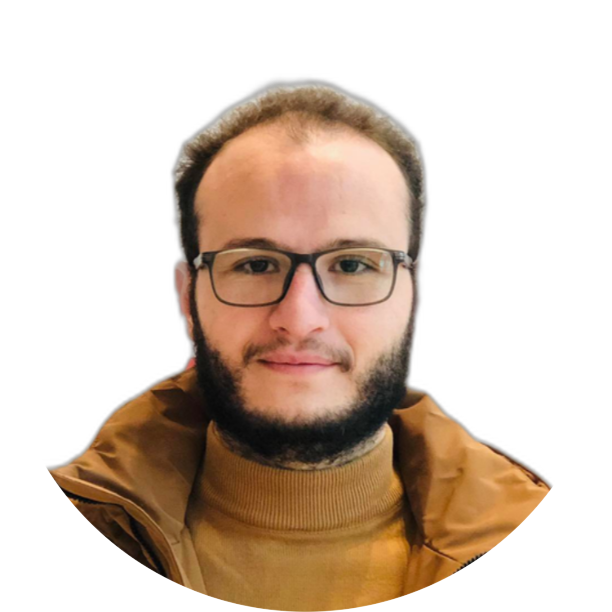
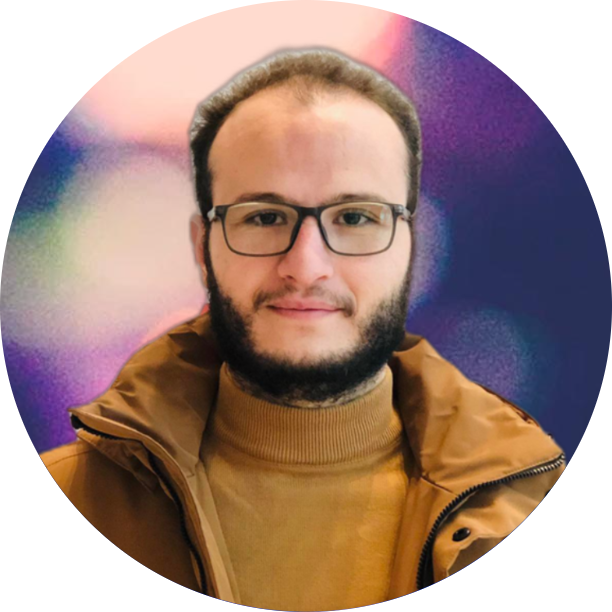
change theme

diff --git a/styles/main.css b/styles/main.css
@@ -1,27 +1,123 @@
-@import url('https://fonts.googleapis.com/css2?family=Readex+Pro:wght@300;400;500;600;700&display=swap');
+@import url('https://fonts.googleapis.com/css2?family=Poppins:wght@400;500;600;700&display=swap');
 
+* {
+  margin: 0;
+  padding: 0;
+  box-sizing: border-box;
+  font-family: 'Poppins', sans-serif;
+}
 
-* {font-family: 'Readex Pro';}
-
+body {
+  background-color: #f2f2f2;
+  color: #333;
+  font-size: 16px;
+}
 
 a {
-    text-decoration: none;
-    color: white !important;
-    font-weight: 500;
+  text-decoration: none;
+  color: #6d4c41;
+  transition: all 0.3s ease-in-out;
 }
 
 a:hover {
-    color: #d33682 !important;
-    text-decoration: none;
+  color: #333;
 }
 
-ul {list-style-type: none;}
-
-hr {
-    margin-top: 0px;
-    margin-bottom: 5%;
+h1,
+h2,
+h3,
+h4,
+h5,
+h6 {
+  font-weight: 500;
+  margin-bottom: 10px;
+  color: #6d4c41;
 }
 
-#MainMenu {visibility: hidden;}
-footer {visibility: hidden;}
-header {visibility: hidden;}
+p {
+  font-size: 16px;
+  line-height: 1.5;
+  margin-bottom: 20px;
+}
+
+.container {
+  max-width: 1170px;
+  margin: 0 auto;
+  padding: 30px;
+  text-align: center;
+}
+
+.btn {
+  display: inline-block;
+  padding: 15px 30px;
+  font-size: 16px;
+  font-weight: 600;
+  text-transform: uppercase;
+  letter-spacing: 1px;
+  border-radius: 50px;
+  transition: all 0.3s ease-in-out;
+  background-color: #6d4c41;
+  color: #fff;
+}
+
+.btn:hover {
+  background-color: #333;
+  color: #fff;
+  cursor: pointer;
+}
+
+header {
+  background-color: #333;
+  color: #fff;
+  padding: 30px 0;
+}
+
+header .logo {
+  font-size: 24px;
+  font-weight: 700;
+  color: #fff;
+  text-transform: uppercase;
+}
+
+header nav {
+  float: right;
+}
+
+header nav ul {
+  display: flex;
+}
+
+header nav ul li {
+  list-style: none;
+  margin-left: 20px;
+}
+
+header nav ul li a {
+  color: #fff;
+  font-size: 18px;
+  font-weight: 500;
+  text-transform: uppercase;
+  transition: all 0.3s ease-in-out;
+}
+
+header nav ul li a:hover {
+  color: #6d4c41;
+}
+
+.hero-section {
+  background-image: url('./hero-bg.jpg');
+  background-size: cover;
+  background-position: center;
+  height: 100vh;
+  display: flex;
+  align-items: center;
+  justify-content: center;
+  text-align: center;
+}
+
+.hero-section h1 {
+  font-size: 36px;
+
+
+
+
